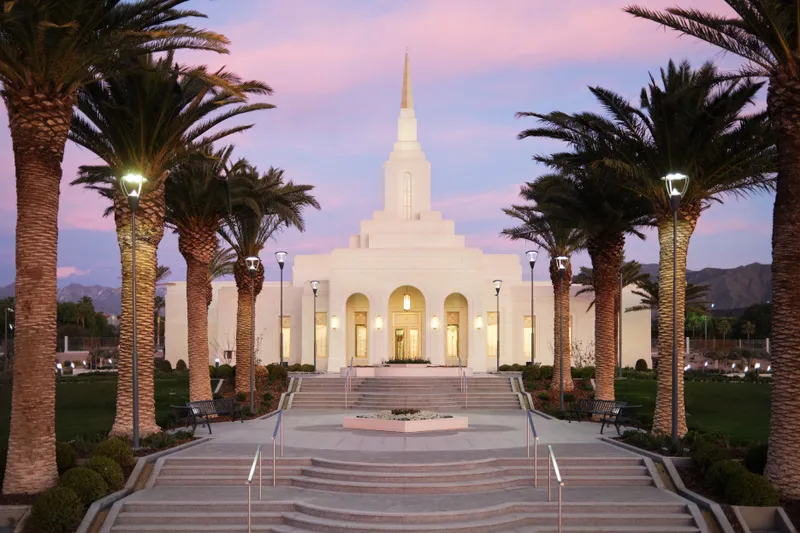
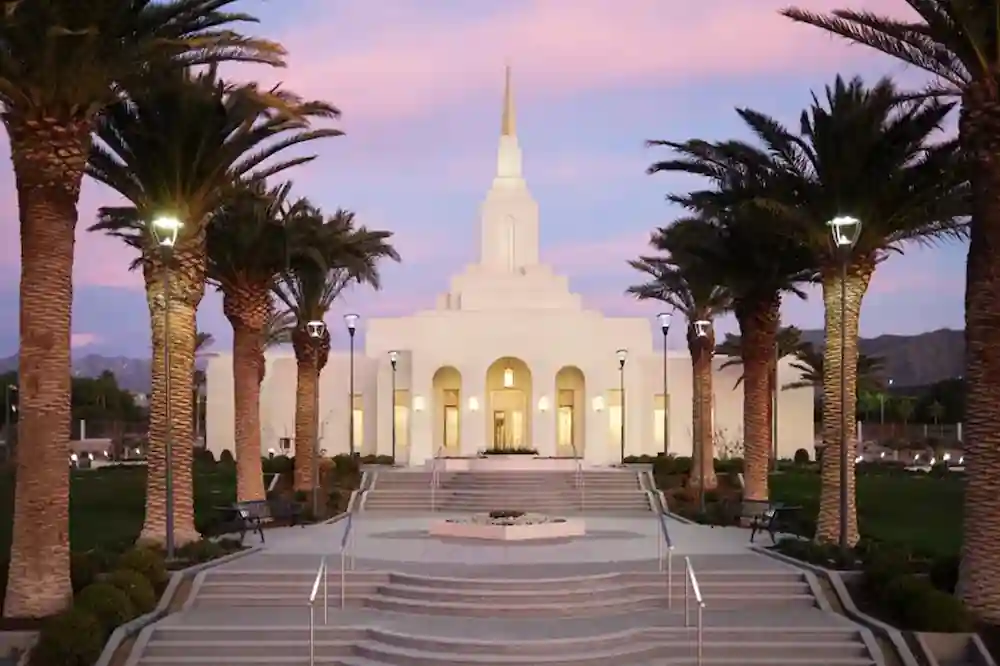
Added opmitized images

diff --git a/temples.html b/temples.html
@@ -52,27 +52,27 @@
             </figure>
 
             <figure>
-                <img src="images/rome.jpg" alt="Rome, Italy Temple">
+                <img src="images/rome.webp" alt="Rome, Italy Temple">
                 <figcaption>Rome, Italy Temple</figcaption>
             </figure>
 
             <figure>
-                <img src="images/salt-lake.jpg" alt="Salt Lake City, Utah Temple">
+                <img src="images/salt-lake.webp" alt="Salt Lake City, Utah Temple">
                 <figcaption>Salt Lake City, Utah Temple</figcaption>
             </figure>
 
             <figure>
-                <img src="images/san-diego.jpg" alt="San Pablo, Brazil Temple">
+                <img src="images/san-diego.webp" alt="San Pablo, Brazil Temple">
                 <figcaption>San Pablo, Brazil Temple</figcaption>
             </figure>
 
             <figure>
-                <img src="images/tokyo.png" alt="Tokyo, Japan Temple">
+                <img src="images/tokyo.webp" alt="Tokyo, Japan Temple">
                 <figcaption>Tokyo, Japan Temple</figcaption>
             </figure>
 
             <figure>
-                <img src="images/london.jpeg" alt="London, England Temple">
+                <img src="images/london.webp" alt="London, England Temple">
                 <figcaption>London, England Temple</figcaption>
             </figure>
 
